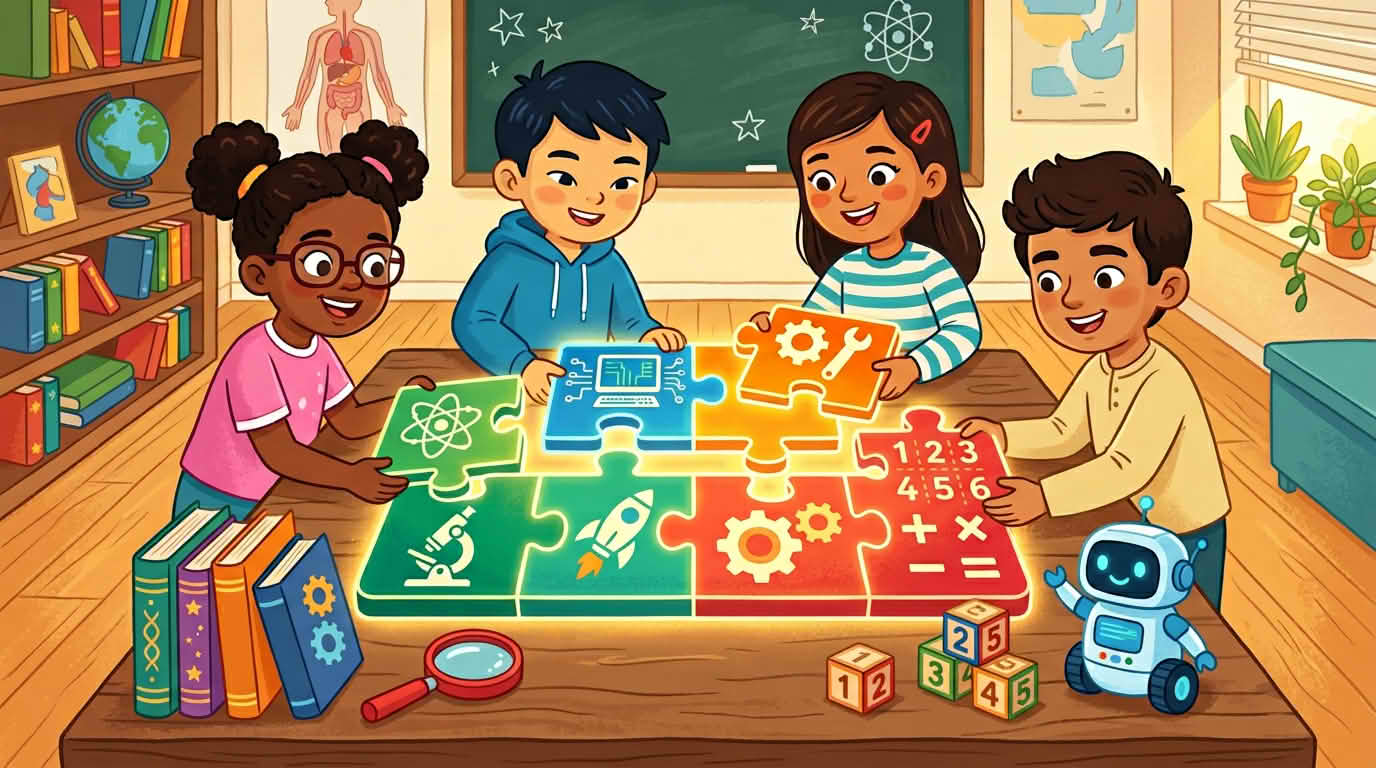
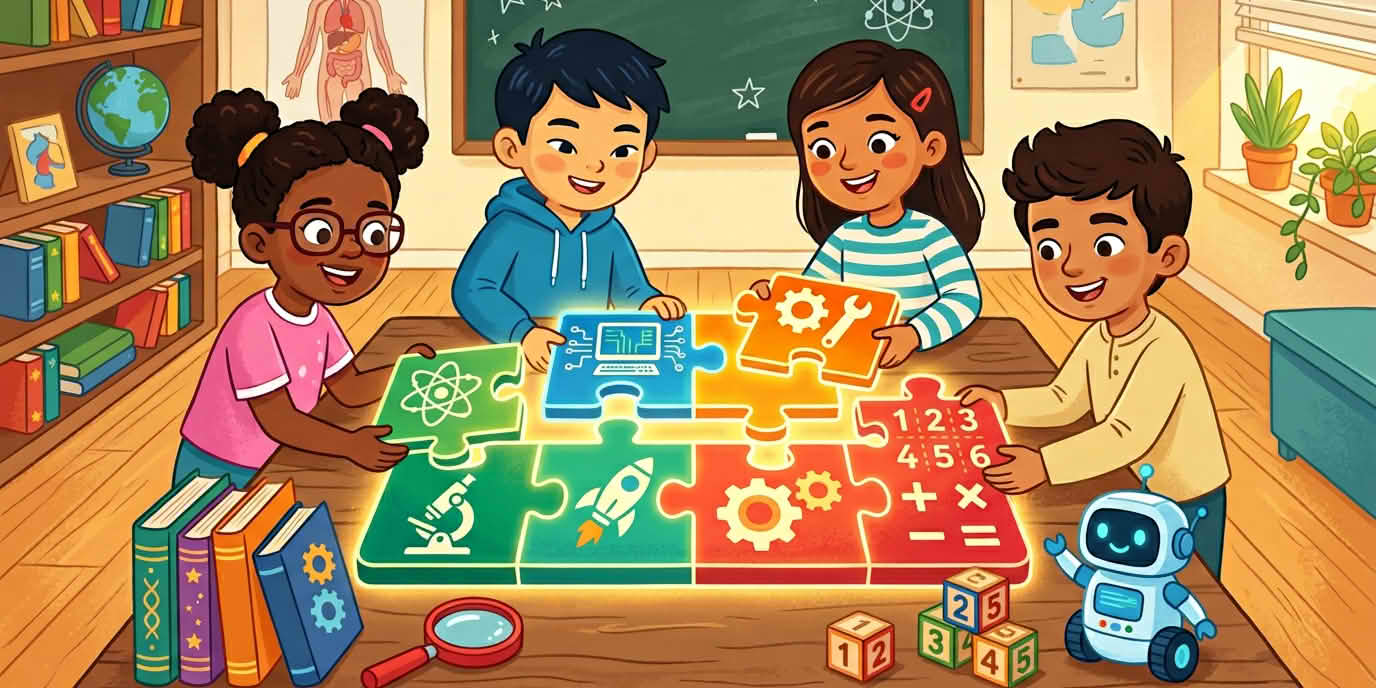
Crop leftover V12 topic art to 2:1.

diff --git a/AGENTS.md b/AGENTS.md
@@ -20,9 +20,9 @@ Bodies are **Bulgarian**. Do not expose filesystem ids or `Vxy` codes in learner
 
 Use the **same art and files** as `c0102-en.short-intro-to-stem`. Do not invent a separate Bulgarian visual style. When replacing a topic image here, copy the matching JPG from the English tree (same lesson/media filename).
 
-- Topic illustrations: **1920×960** (2:1) JPG. Markdown: `![descriptive alt](media/filename.jpg)`.
+- Topic illustrations: **2:1** JPG (typical **1920×960**; a few V12 files are lossless-cropped **1376×688**). Markdown: `![descriptive alt](media/filename.jpg)`.
 - **Do not touch** `media/course-cover.jpg`, `media/course-badge.jpg`, or `media/course-hero.jpg` unless explicitly asked.
-- Leave the older **1376×768** photos in place unless asked to replace them. Style references live in the EN tree (same relative paths).
+- Style references live in the EN tree (same relative paths).
 - Full style and the copy-paste generation prompt: **`c0102-en.short-intro-to-stem/AGENTS.md`** (Content images). Handbook art follows that same look in `c0202-bg.short-intro-to-stem`.
 
 ## Validation
